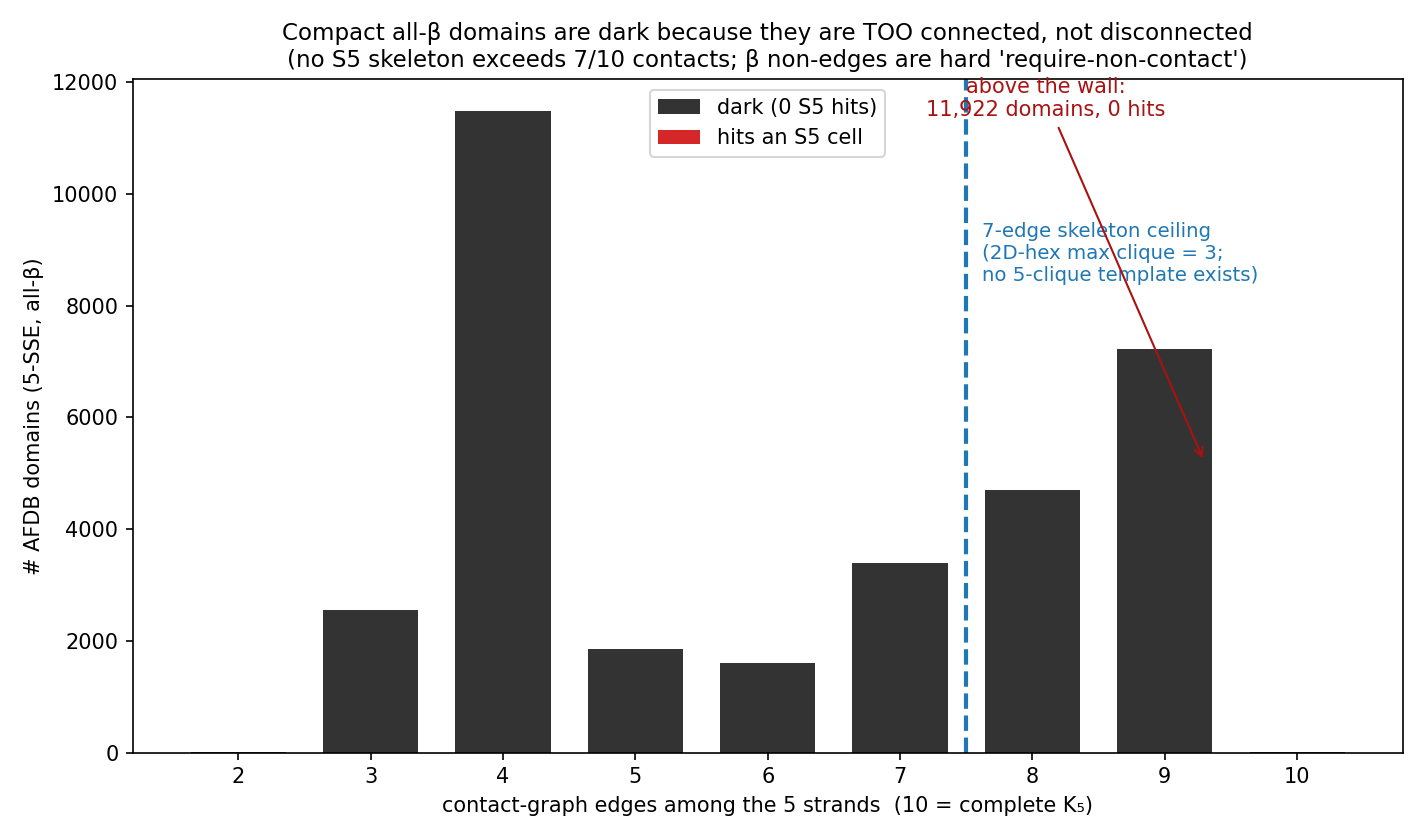
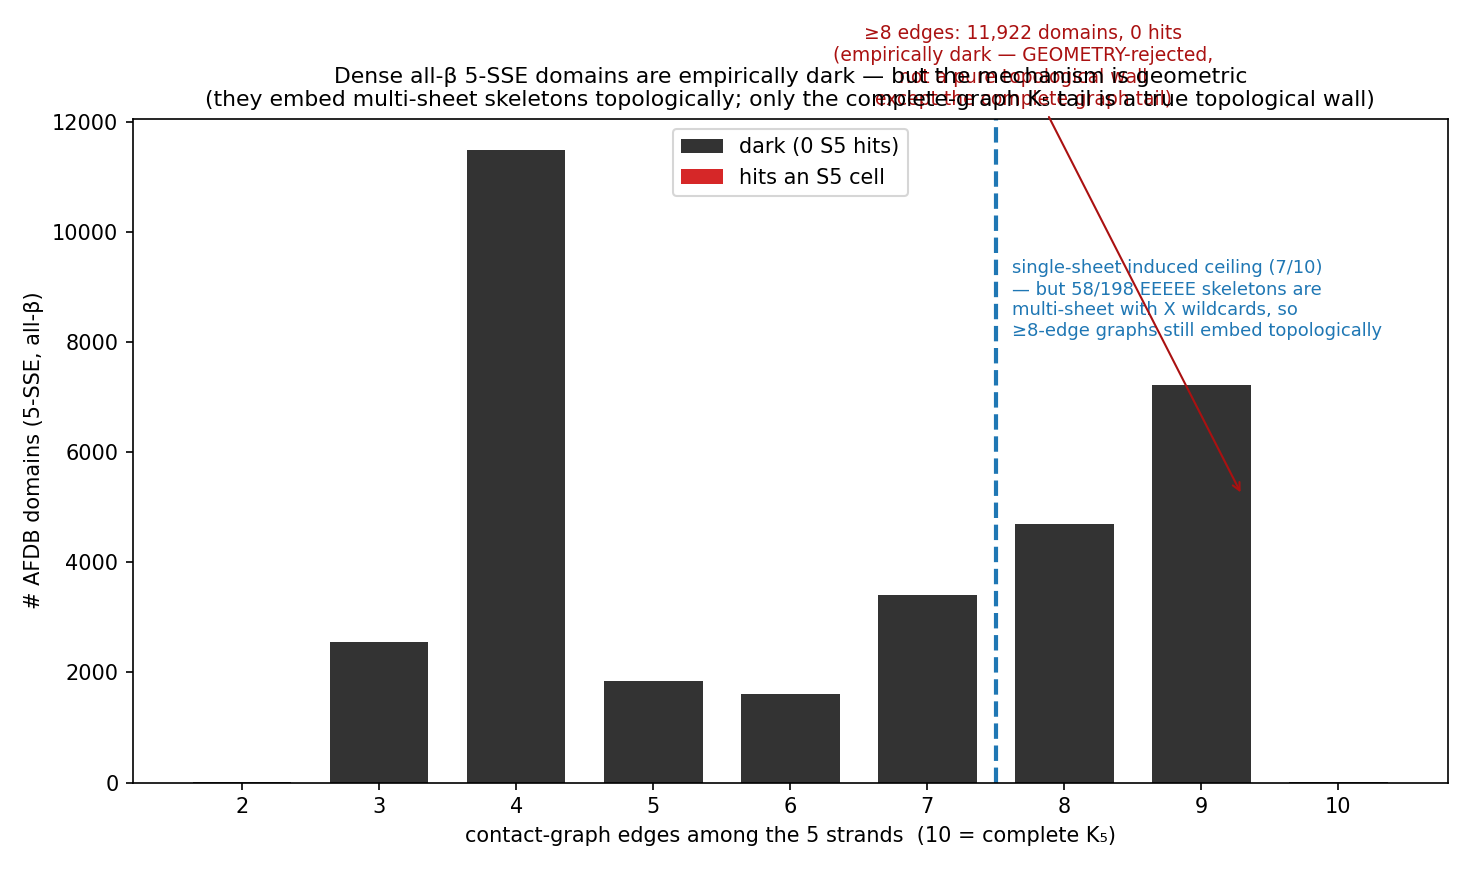
enum: full dark sieve of 4.92M AFDB reps + correct the topological-wall overclaim
Tier-1 exact sieve (sieve_dark.py) + Tier-2 50k topological proxy (proxy_d1d2.py).
Hit set reconciled via 15-char name truncation (searchmatrix drops _nD<n> for
10-char UniProt accs; 939 ambiguous). Buckets: A <5 SSE 43.0%, B SSEs-too-short
13.1%, C sparse 1.1%, D compact residual 42% -> D2 geometry-rejected 99.4% / D1
topology-absent 0.6%.

CORRECTION: earlier 'dense all-beta = induced topological wall' overclaimed. 58/198
EEEEE skeletons are multi-sheet with X wildcards, so >=8-edge beta graphs embed
topologically and are dark on GEOMETRY, not topology. Only the complete-graph K_n
tail (D1, ~0.6%, beta-enriched) is a true topological wall. Empirical 0/11,922
>=8-edge stands; mechanism refined. Figures s5_dark_sieve.png + corrected
s5_contact_ceiling.png.

Claude-Session: https://claude.ai/code/session_0165o9Zob2EZ4MKrD2Xoi2no

diff --git a/enum/docs/dataset_analysis_plan.md b/enum/docs/dataset_analysis_plan.md
@@ -280,25 +280,53 @@ disconnection: they are **denser than any skeleton can be**.
   the oracle-gap K₁,₄/C₅ non-realizability, [[project_s5_oracle_gap]]). So the
   198 are complete *for that model*; a denser template isn't "missing," it is
   **un-enumerable without leaving the planar-hex model**.
-- **β = induced match (topological wall).** For E-typed pairs the skeleton's
-  non-edges are coded `-` = *require-non-contact*, so β-matching is **induced**
-  subgraph iso: a domain hits only if its strand graph *equals* a ≤7-edge skeleton
-  pattern. A Kₙ (or ≥8-edge) all-β domain violates every skeleton's `-` and matches
-  **nothing**. Decisive test (5-SSE all-β, edge count × hit status): **0 hits among
-  all 11,922 domains with ≥8 edges** (>7-edge ceiling); the only 5 hits sit at 4
-  edges. Figure `figures/s5_contact_ceiling.png`.
+- **The topological wall is REAL but RARE (correction).** A *complete-graph* (Kₙ)
+  domain matches no skeleton: every EEEEE skeleton has ≥1 require-non-contact among
+  the mapped pairs, which a complete graph violates; the hand-picked gallery (all
+  Kₙ) are genuine topological walls. **But this does NOT generalize to all dense β
+  domains.** Earlier framing ("≥8-edge all-β ⇒ matches nothing, induced wall") was
+  **too strong**: **58 of 198 EEEEE skeletons are multi-sheet and code their
+  cross-sheet non-edges `X` (wildcard), not `-`.** So an 8–9-edge β graph *can*
+  embed topologically into a multi-sheet skeleton — it is then dark on **geometry**
+  (contact-type, strand register, handedness), not topology. The empirical **0 hits
+  among 11,922 ≥8-edge 5-SSE all-β domains** (`figures/s5_contact_ceiling.png`)
+  stands, but the *mechanism* is dominantly geometric; only the true complete-graph
+  tail is a topological wall. See the population sieve below for the split.
 - **α = monomorphism (geometry wall).** For H-typed pairs non-edges are coded `X`
   = wildcard, so extra contacts are tolerated; a compact all-α bundle's *contact
-  pattern* is satisfiable. Those are dark for a **softer** reason — contact-type
-  (v/u vs the domain's angle class), the 9 per-skeleton **handedness** triples, and
-  distance gates — off-lattice *packing*, not off-lattice *topology*. Here a
-  differently-parameterized template could in principle match; for the β wall it
-  could not (short of a non-hex descriptor).
+  pattern* is satisfiable. Dark for the same **geometry** reason — contact-type
+  (v/u vs angle class), the 9 per-skeleton **handedness** triples, distance gates.
 
 Bottom line for the thesis: darkness is **not** "no connected 5-SSE motif" and
-**not** a fixable enumeration hole. For β it is a genuine representational boundary
-of the 2D-hex + require-non-contact model (Kₙ > 7-edge ceiling); for α it is
-off-lattice geometry.
+**not** a fixable enumeration hole. It is **overwhelmingly geometric** (2D-hex
+handedness/angle/contact-type rejects a topology that *is* representable) — see the
+sieve; the pure-topology wall (Kₙ, denser than any skeleton) is a rare β-enriched
+tail (~0.6% of the compact residual), not the main story.
+
+### Full dark-sieve of all 4.92M searched reps (Tier-1 exact + Tier-2 proxy)
+`sieve_dark.py` (one exact pass) + `proxy_d1d2.py` (50k topological-match sample).
+Reconciled hit set via **15-char name truncation** (searchmatrix truncates output
+names, dropping `_nD<n>` for 10-char UniProt accs; 939 ambiguous truncations →
+2,272 sibling reps conservatively counted as hit). Mutually-exclusive buckets
+(`figures/s5_dark_sieve.png`):
+
+| bucket | count | % | meaning |
+|---|---:|---:|---|
+| A · <5 SSEs | 2,114,879 | 43.0% | too few SSEs to fill a 5-motif |
+| B · ≥5 SSE, <5 pass length | 645,490 | 13.1% | SSEs too short (H≥8/E≥5 filter) |
+| C · ≥5 pass, sparse | 54,528 | 1.1% | no connected 5-motif (Case-1 extended) |
+| **D2 · compact, geometry-rejected** | **2,046,098** | **41.6%** | topology fits a skeleton; 2D-hex geometry doesn't |
+| **D1 · compact, topology-absent** | **12,972** | **0.26%** | contact pattern fits NO skeleton (Kₙ / β tail) |
+| HIT | 15,593 | 0.32% | — |
+
+- **56% (A+B) is a size/length story**; only **1.1%** is genuinely extended (C).
+- The compact residual (D, 42%) splits **D2 99.4% / D1 0.6%** (proxy, ±0.1% CI):
+  darkness of compact domains is **geometric**, not topological. D1 is
+  **β-enriched** (55% all-E vs 18% base) — the induced-non-contact/complete-graph
+  tail, as predicted; D2 is composition-broad.
+- Method note: the topological proxy embeds each typed skeleton's
+  contact/`-`/`X` pattern (ignoring contact-type identity, handedness, distance —
+  those are the "geometry" it isolates); validated on Kₙ all-β (→ 0 matches).
 
 **Length-filter control (important).** The S5 queries hard-filter every position
 by SSE length (`length` line: **H ≥ 8, E ≥ 5** residues, uniform across all 32
